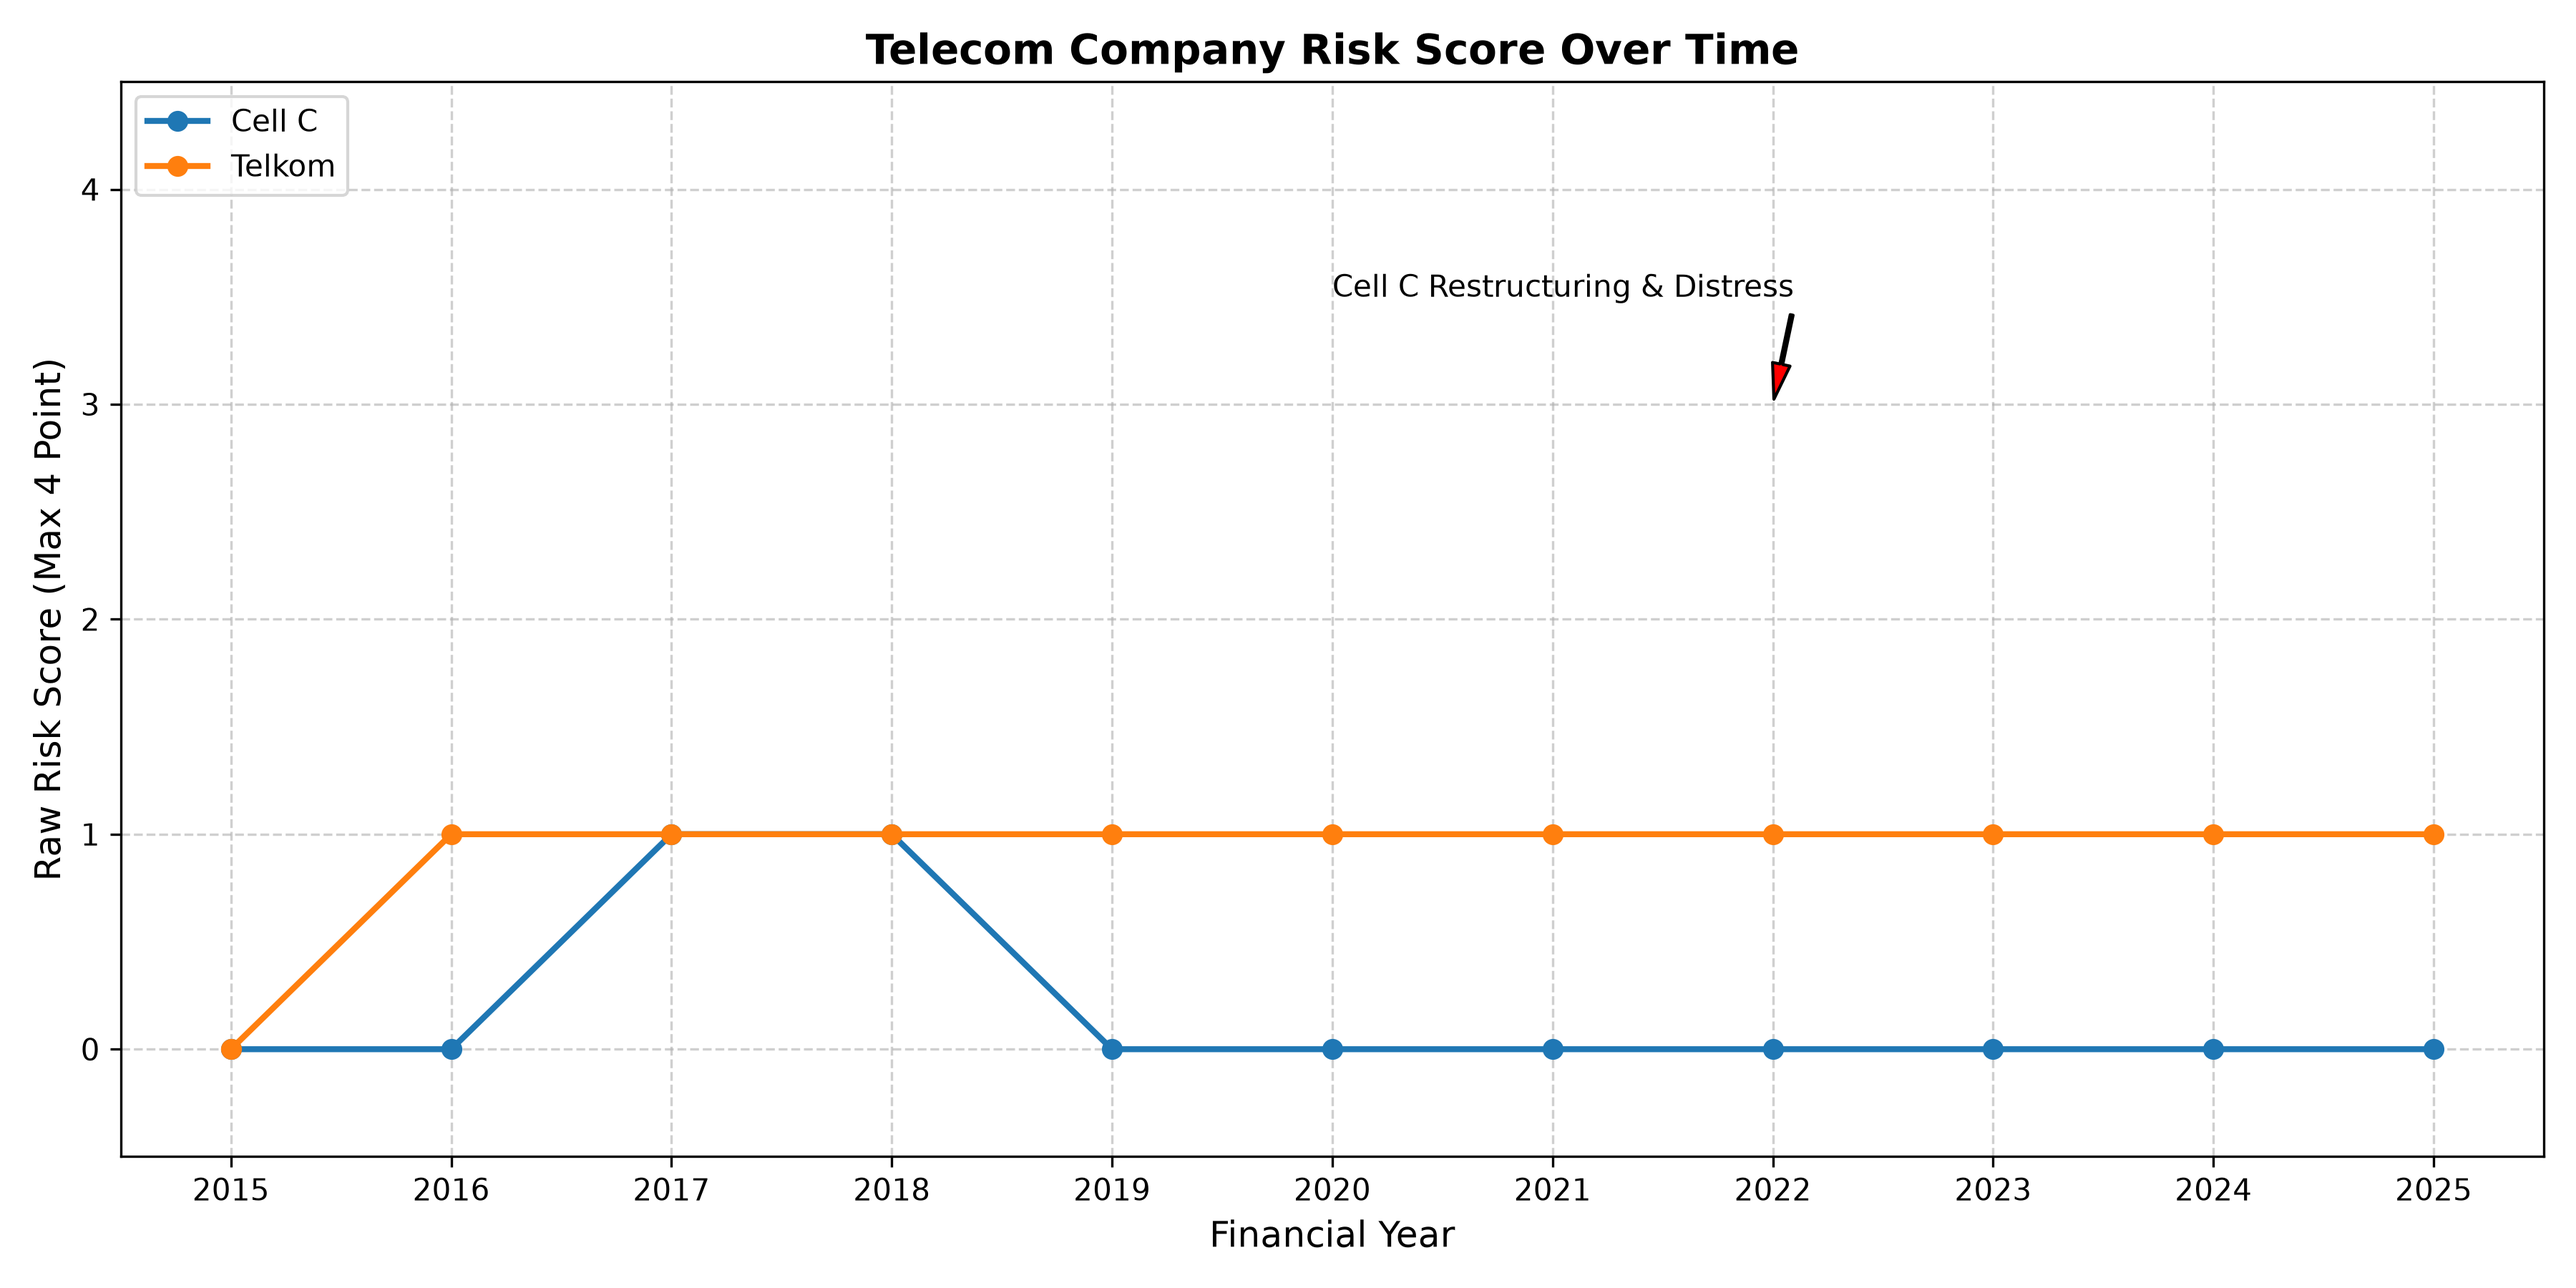
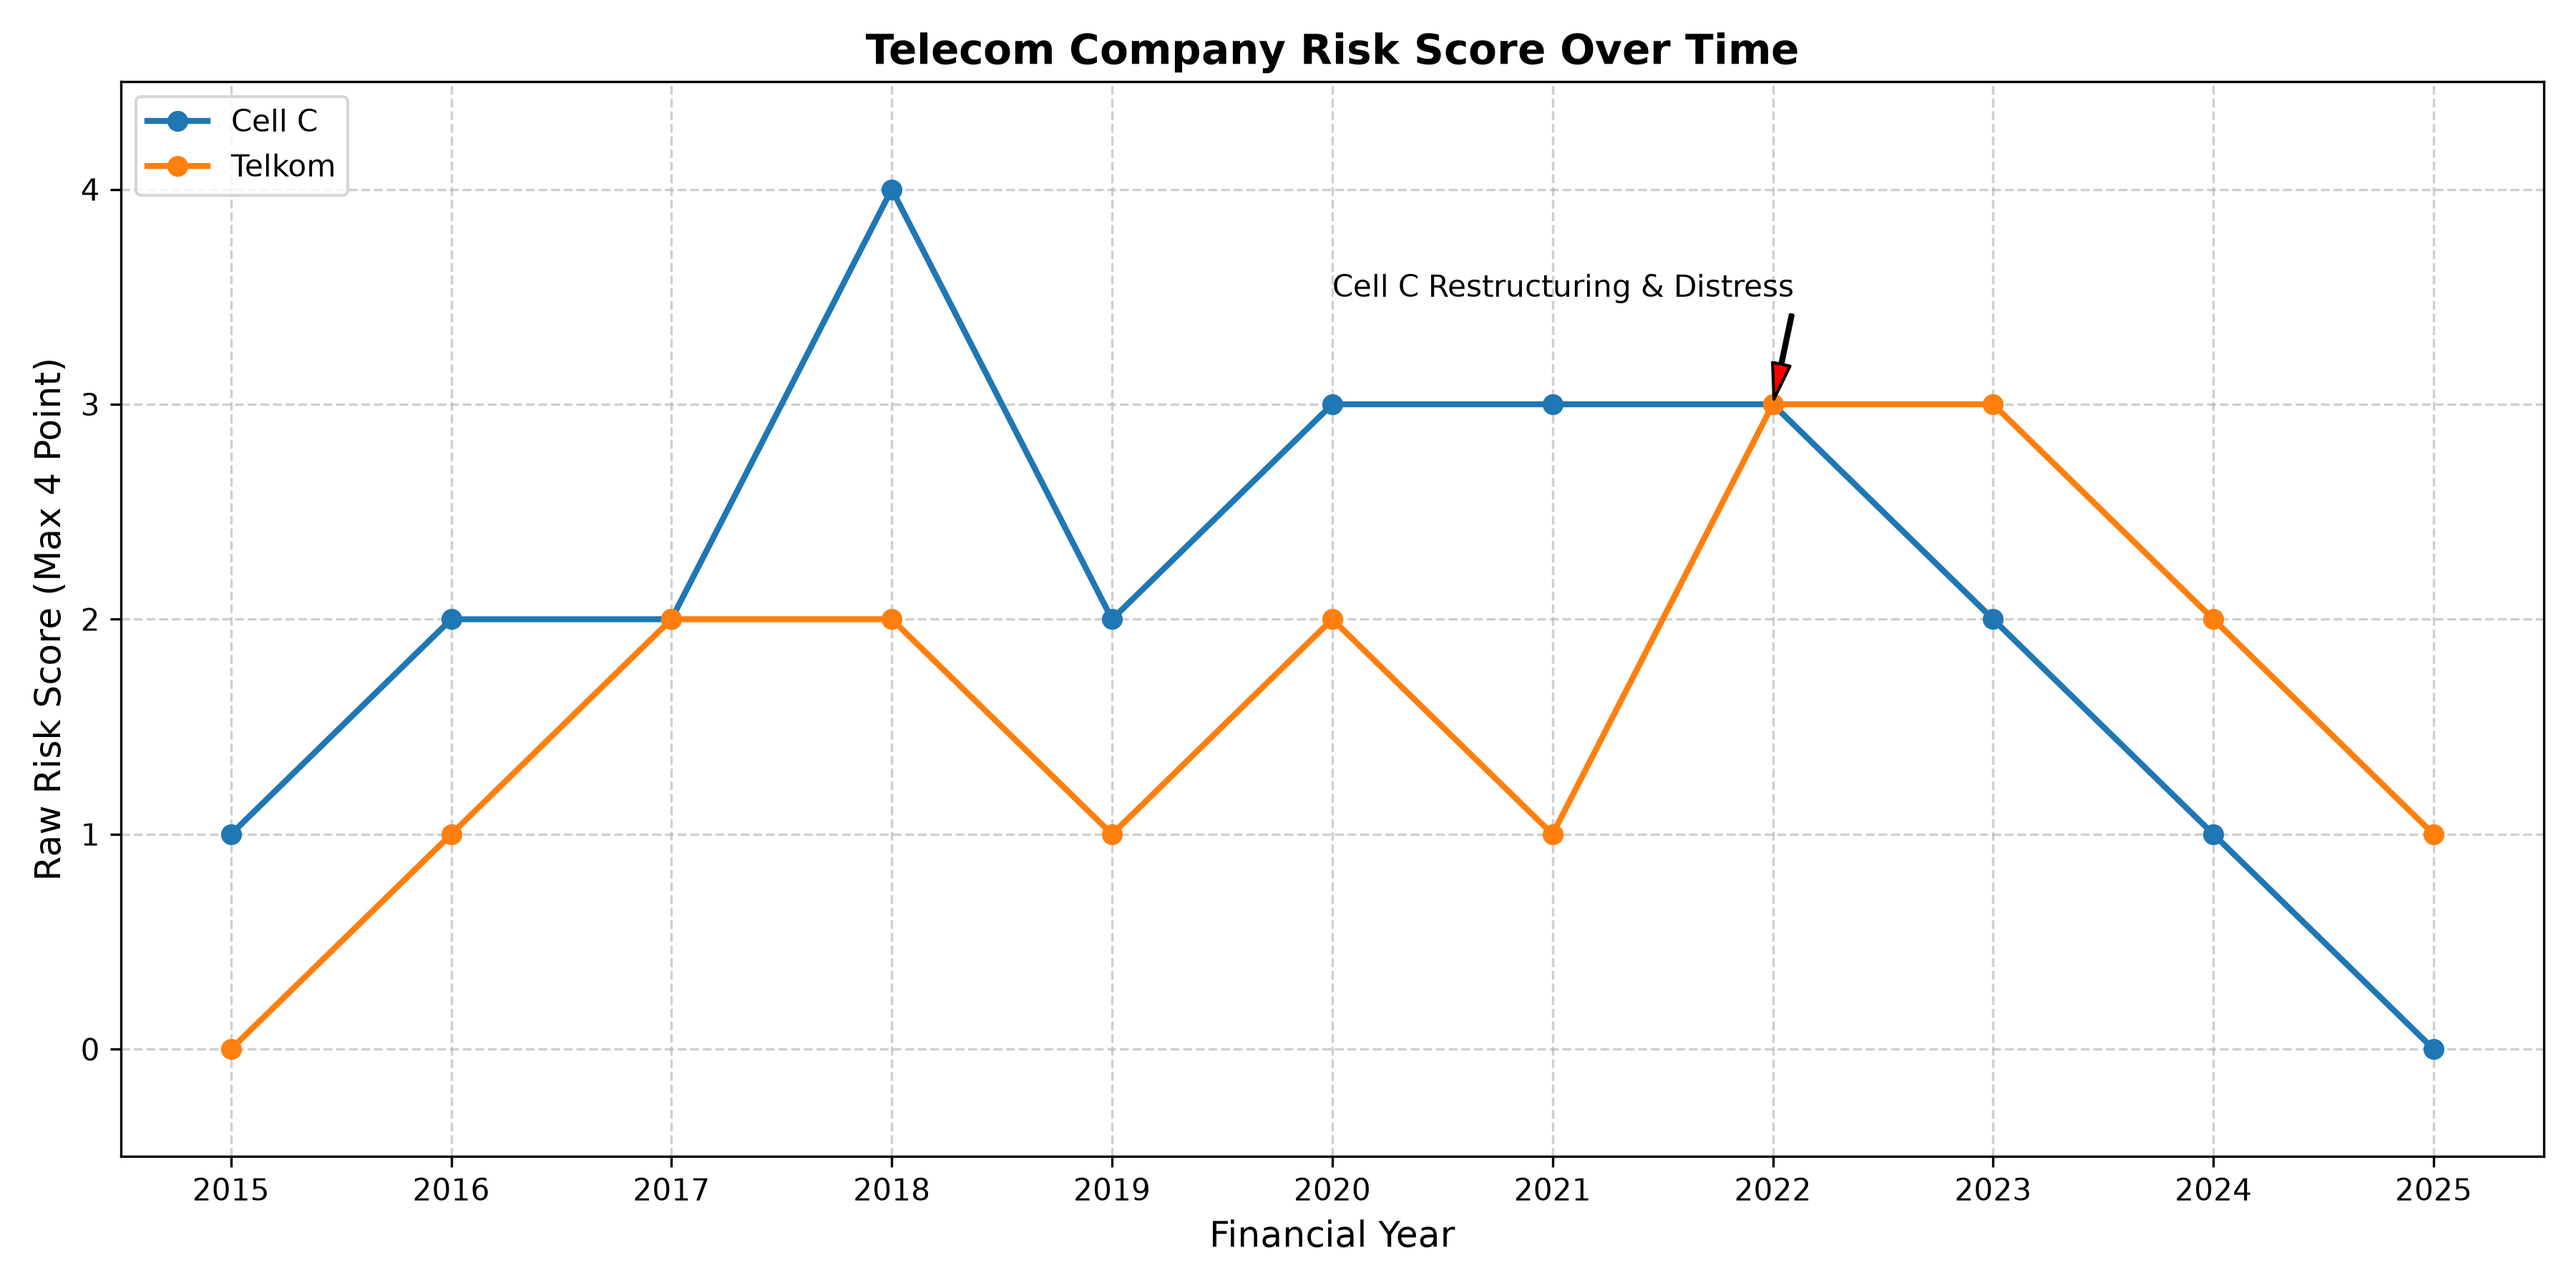
fix SQL syntax error in risk scoring query

diff --git a/telecoms.py b/telecoms.py
@@ -1,9 +1,5 @@
 import pandas as pd
 import numpy as np
-<<<<<<< HEAD
-=======
-import mysql.connector as mc
->>>>>>> daae38af355050a5a94ae8c98add125f636ef7d2
 import sqlite3
 import streamlit as st
 import matplotlib.pyplot as plt
@@ -11,21 +7,9 @@ from sklearn.linear_model import LinearRegression
 
 @st.cache_resource
 def get_connection():
-<<<<<<< HEAD
     return sqlite3.connect("telecoms.db", check_same_thread=False)
 mydb = get_connection()
 mycursor = mydb.cursor()
-=======
-    return mc.connect(
-    host="localhost",
-    user="root",
-    password="Holocust",
-)
-mydb = get_connection()
-mycursor = mydb.cursor()
-mycursor.execute("CREATE DATABASE IF NOT EXISTS Telecoms")
-mycursor.execute("USE Telecoms")
-
 
 mycursor.execute("DROP TABLE IF EXISTS financial_data")
 print("Old table wiped clean")
@@ -43,11 +27,7 @@ CREATE TABLE IF NOT EXISTS financial_data(
 mycursor.execute(sql_create_table)
 print("Table created successfully")
 
-<<<<<<< HEAD
 mycursor.execute("PRAGMA table_info(financial_data)")
-=======
-mycursor.execute("DESCRIBE financial_data")
->>>>>>> daae38af355050a5a94ae8c98add125f636ef7d2
 for row in mycursor.fetchall():
     print(row)
 
@@ -55,11 +35,7 @@ for row in mycursor.fetchall():
 insert_query = """
 INSERT INTO financial_data
 (company, year, revenue, ebitda, net_profit, subscribers)
-<<<<<<< HEAD
 VALUES (?, ?, ?, ?, ?, ?)
-=======
-VALUES (%s, %s, %s, %s, %s, %s)
->>>>>>> daae38af355050a5a94ae8c98add125f636ef7d2
 """
 excel_file = "SA_Telecoms_Dataset_2015_2025.xlsx"
 
@@ -103,7 +79,7 @@ for index, row in df_filtered.iterrows():
     )
     mycursor.execute(insert_query, value)
     mydb.commit()
-    print(f"{len(df_filtered)}")
+    print(f"{len(df_filtered)}") 
 
 sql_calculate_trends = """
 WITH financial_trends AS (
@@ -114,11 +90,11 @@ WITH financial_trends AS (
     ebitda,
     net_profit,
     subscribers,
-    (revenue / NULLIF(subscribers, 0)) AS arpu,
+    (CAST(revenue AS REAL) / NULLIF(subscribers, 0)) AS arpu,
 
     LAG(revenue) OVER(PARTITION BY company ORDER BY Year ) AS prev_revenue,
     LAG(ebitda) OVER (PARTITION BY company ORDER BY Year ) AS prev_ebitda,
-    LAG(revenue / NULLIF(subscribers, 0)) OVER(PARTITION BY company ORDER BY Year) AS prev_arpu
+    LAG(CAST(revenue AS REAL) / NULLIF(subscribers, 0)) OVER(PARTITION BY company ORDER BY Year) AS prev_arpu
     FROM financial_data
 ),
 calculated_metrics AS (
@@ -126,12 +102,12 @@ SELECT
     company_name,
     financial_year,
 
-    ((revenue - prev_revenue) / NULLIF(prev_revenue, 0)) * 100 AS revenue_growth_yoy,
-    (ebitda / NULLIF(revenue, 0)) AS ebitda_margin,
-    ((ebitda / NULLIF(revenue, 0 )) - (prev_ebitda / NULLIF(prev_revenue, 0))) AS ebitda_margin_change,
+    ((CAST(revenue AS REAL) - prev_revenue) / NULLIF(prev_revenue, 0)) * 100 AS revenue_growth_yoy,
+    (CAST(ebitda AS REAL) / NULLIF(revenue, 0)) * 100 AS ebitda_margin,
+    ((CAST(ebitda AS REAL) / NULLIF(revenue, 0 )) - (CAST(prev_ebitda AS REAL) / NULLIF(prev_revenue, 0))) AS ebitda_margin_change,
 
-    (net_profit / NULLIF(revenue, 0)) * 100 AS net_profit_margin,
-    (arpu - prev_arpu) as arpu_change_yoy
+    (CAST(net_profit AS REAL) / NULLIF(revenue, 0)) * 100 AS net_profit_margin,
+    (arpu - prev_arpu) AS arpu_change_yoy
 FROM financial_trends
 ),
 risk_scoring AS (
